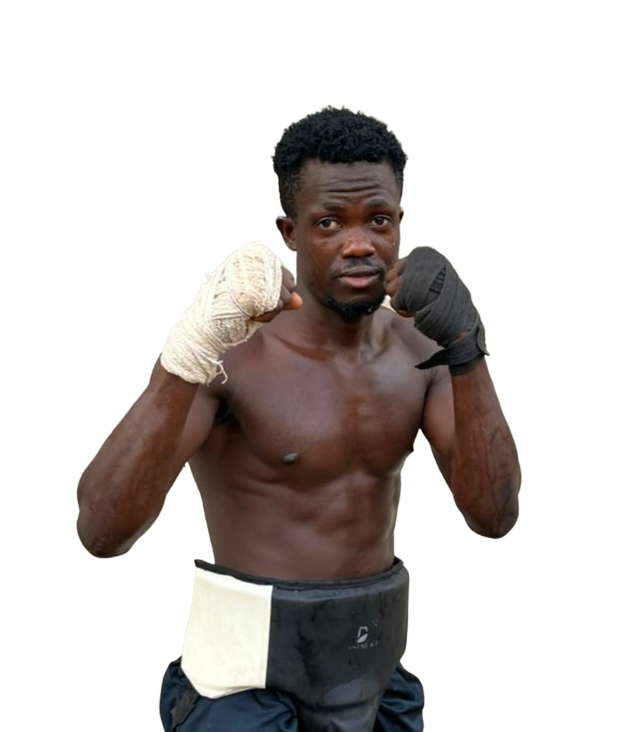
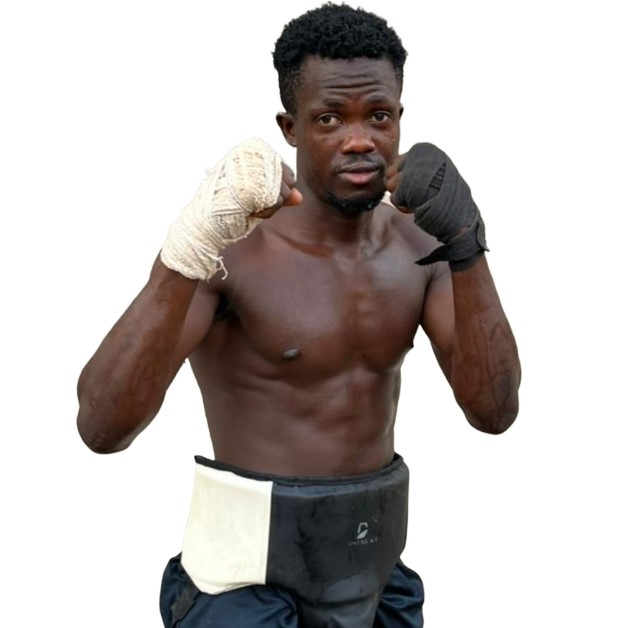
layout updates

Changed region(s): [[0.1199, 0.0, 0.8391, 0.9682], [0.5095, 0.8471, 0.6893, 0.9984]]

diff --git a/app/entertainment/[slug]/page.tsx b/app/entertainment/[slug]/page.tsx
@@ -74,6 +74,7 @@ export default async function TalentProfilePage({
   const talent = allTalent.find((item) => item.slug === slug);
   if (!talent) notFound();
   const image = getTalentImage(talent.slug, talent.name, talent.kind);
+  const isAthlete = talent.kind === "athlete";
 
   return (
     <>
@@ -92,8 +93,15 @@ export default async function TalentProfilePage({
         <div className="mx-auto w-full max-w-full overflow-hidden rounded-t-[2.25rem] bg-site-soft">
           <div className="section-wrap space-y-8">
             <div data-reveal className="relative overflow-hidden rounded-2xl border border-black/10 bg-black/5">
-              <div className="relative aspect-16/7 min-h-[220px]">
-                <Image alt={image.alt} className="object-cover" fill priority sizes="(max-width: 1024px) 100vw, 1200px" src={image.src} />
+              <div className={`relative min-h-[220px] ${isAthlete ? "aspect-4/5 sm:aspect-5/4 lg:aspect-video" : "aspect-16/7"}`}>
+                <Image
+                  alt={image.alt}
+                  className={isAthlete ? "object-contain object-center" : "object-cover"}
+                  fill
+                  priority
+                  sizes="(max-width: 1024px) 100vw, 1200px"
+                  src={image.src}
+                />
               </div>
               <div aria-hidden className="pointer-events-none absolute inset-0 bg-linear-to-t from-black/45 via-black/5 to-transparent" />
               <div className="absolute inset-x-0 bottom-0 p-6 sm:p-8">

diff --git a/app/components/site-header.tsx b/app/components/site-header.tsx
@@ -29,13 +29,7 @@ export function SiteHeader() {
   const onPublishing = pathname.startsWith("/publishing");
   const useTransparentHeader = onHome && !scrolled;
   const useLightChrome = useTransparentHeader && !drawerOpen;
-  const brandLogoSrc = useLightChrome
-    ? "/logoWhite.png"
-    : onEntertainment
-      ? "/logoEnt.png"
-      : onPublishing
-        ? "/logoPub.png"
-        : "/logoWhite.png";
+  const brandLogoSrc = onEntertainment ? "/iconBlack.png" : "/iconWhite.png";
   const brandLogoAlt = onEntertainment
     ? "6in1 Entertainment"
     : onPublishing
